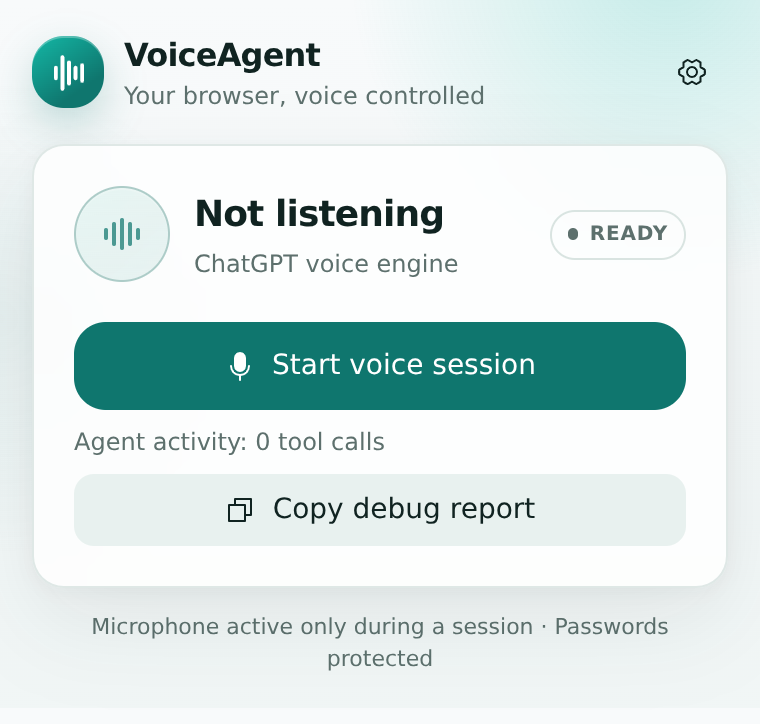
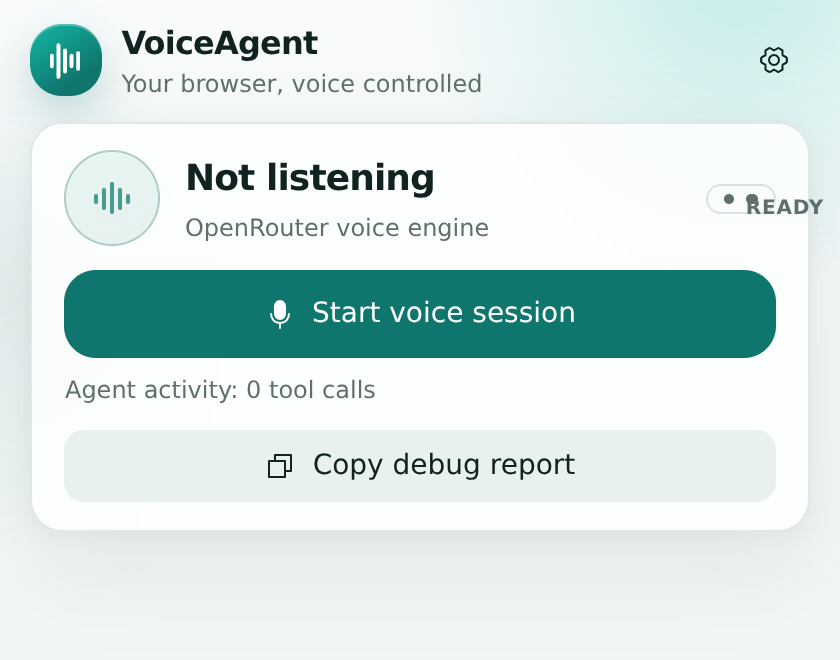
fix: report the configured engine before a session starts
The panel read ChatGPT voice engine while the stored choice was OpenRouter,
because engine holds the module default until a session reads it from storage.
An idle status query now reads the stored choice, so the label matches what is
configured. A running session keeps its own engine, which is the true answer
while it is active.

Verified in a loaded build: idle status reports the stored engine, follows a
change to it, and the panel label follows. The README screenshot is recaptured
because it showed the old, wrong label.

diff --git a/src/background/live.ts b/src/background/live.ts
@@ -231,6 +231,10 @@ async function dispatch(event: VoiceEvent): Promise<void> {
 export async function handleVoiceRequest(request: VoiceRequest): Promise<VoiceStatus> {
   switch (request.type) {
     case "voice-status":
+      // Between sessions the panel reports the configured engine, so read the stored
+      // choice rather than leaving the default, or the previous session's engine, on
+      // screen. During a session the running engine is the true answer and is kept.
+      if (!isActive(state)) engine = await readEngine();
       return status();
 
     case "voice-start": {
